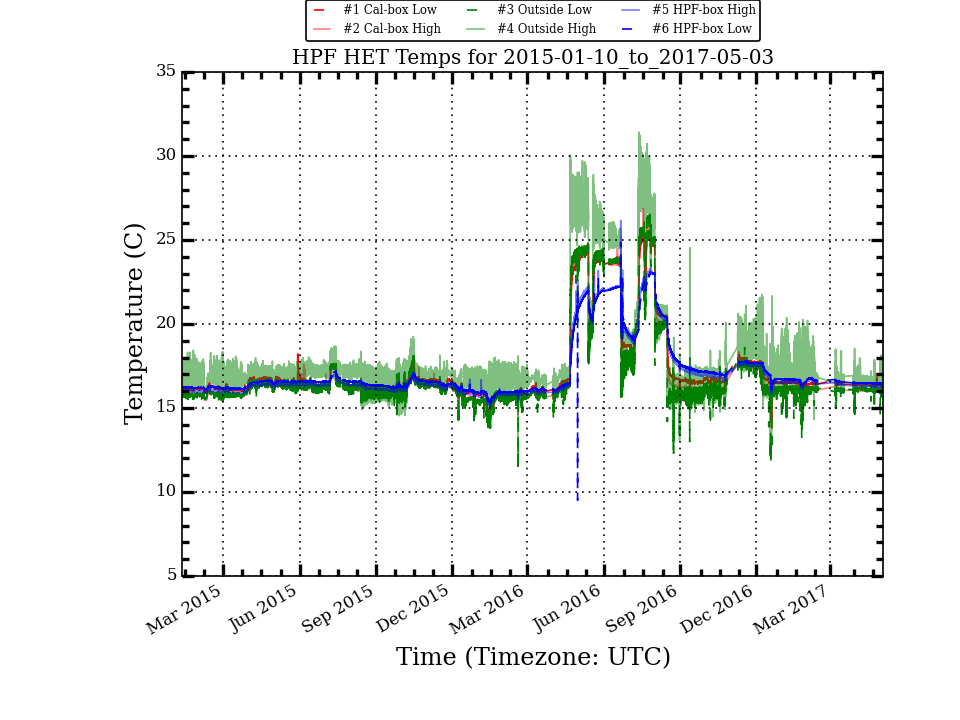
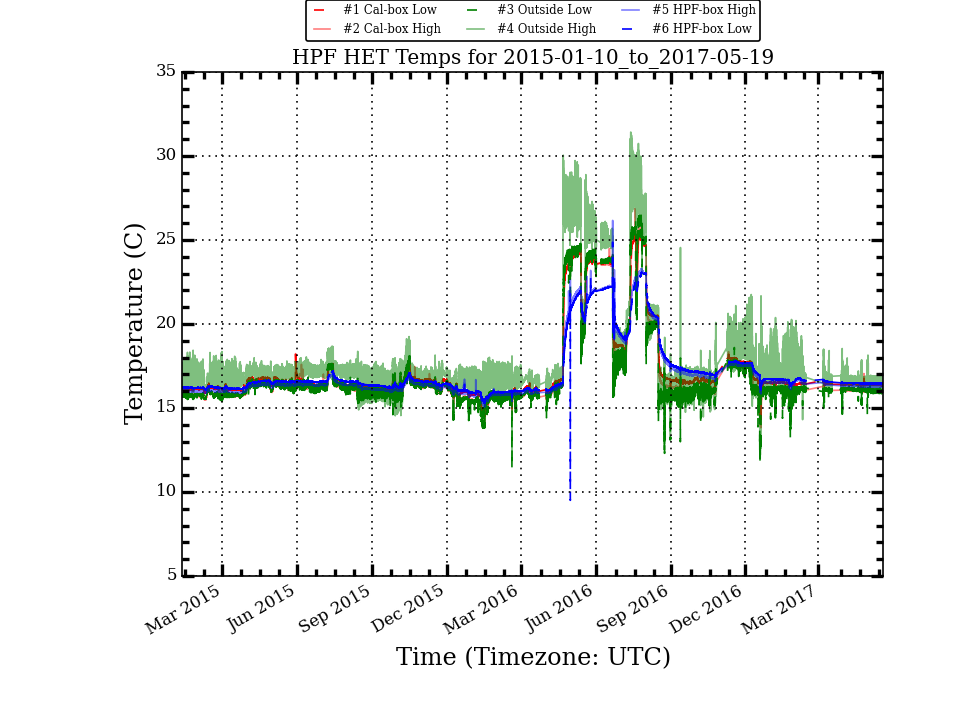
Update HPF Temp Plots

diff --git a/research/hpf_temps/plots/LakeShoreLogTotal_today_stats.html b/research/hpf_temps/plots/LakeShoreLogTotal_today_stats.html
@@ -10,56 +10,56 @@
  </TR>
  <TR>
   <TD>Cal_Low</TD>
-  <TD>16.377</TD>
-  <TD>0.007</TD>
-  <TD>16.375</TD>
-  <TD>16.393</TD>
-  <TD>16.369</TD>
-  <TD>0.024</TD>
+  <TD>16.314</TD>
+  <TD>0.004</TD>
+  <TD>16.314</TD>
+  <TD>16.324</TD>
+  <TD>16.307</TD>
+  <TD>0.017</TD>
  </TR>
  <TR>
   <TD>Cal_High</TD>
-  <TD>16.029</TD>
-  <TD>0.013</TD>
-  <TD>16.025</TD>
-  <TD>16.056</TD>
-  <TD>16.010</TD>
-  <TD>0.046</TD>
+  <TD>15.957</TD>
+  <TD>0.011</TD>
+  <TD>15.957</TD>
+  <TD>15.980</TD>
+  <TD>15.941</TD>
+  <TD>0.039</TD>
  </TR>
  <TR>
   <TD>Out_Low</TD>
-  <TD>16.166</TD>
-  <TD>0.107</TD>
+  <TD>16.008</TD>
+  <TD>0.041</TD>
+  <TD>16.014</TD>
   <TD>16.129</TD>
-  <TD>16.506</TD>
-  <TD>15.938</TD>
-  <TD>0.568</TD>
+  <TD>15.866</TD>
+  <TD>0.263</TD>
  </TR>
  <TR>
   <TD>Out_High</TD>
-  <TD>16.702</TD>
-  <TD>0.142</TD>
-  <TD>16.751</TD>
-  <TD>16.890</TD>
-  <TD>16.139</TD>
-  <TD>0.751</TD>
+  <TD>16.684</TD>
+  <TD>0.149</TD>
+  <TD>16.718</TD>
+  <TD>16.872</TD>
+  <TD>16.016</TD>
+  <TD>0.856</TD>
  </TR>
  <TR>
   <TD>HPF_High</TD>
-  <TD>16.282</TD>
-  <TD>0.006</TD>
-  <TD>16.282</TD>
-  <TD>16.297</TD>
-  <TD>16.267</TD>
-  <TD>0.030</TD>
+  <TD>16.278</TD>
+  <TD>0.003</TD>
+  <TD>16.278</TD>
+  <TD>16.286</TD>
+  <TD>16.268</TD>
+  <TD>0.018</TD>
  </TR>
  <TR>
   <TD>HPF_Low</TD>
+  <TD>16.449</TD>
+  <TD>0.002</TD>
+  <TD>16.449</TD>
   <TD>16.455</TD>
-  <TD>0.003</TD>
-  <TD>16.455</TD>
-  <TD>16.462</TD>
-  <TD>16.446</TD>
-  <TD>0.016</TD>
+  <TD>16.441</TD>
+  <TD>0.014</TD>
  </TR>
 </TABLE>

diff --git a/research/hpf_temps/plots/LakeShoreLogTotal_stats.html b/research/hpf_temps/plots/LakeShoreLogTotal_stats.html
@@ -10,54 +10,54 @@
  </TR>
  <TR>
   <TD>Cal_Low</TD>
-  <TD>17.291</TD>
-  <TD>2.270</TD>
-  <TD>16.491</TD>
+  <TD>17.273</TD>
+  <TD>2.251</TD>
+  <TD>16.482</TD>
   <TD>25.643</TD>
   <TD>14.362</TD>
   <TD>11.281</TD>
  </TR>
  <TR>
   <TD>Cal_High</TD>
-  <TD>16.986</TD>
-  <TD>2.405</TD>
-  <TD>16.128</TD>
+  <TD>16.967</TD>
+  <TD>2.385</TD>
+  <TD>16.123</TD>
   <TD>26.856</TD>
   <TD>13.829</TD>
   <TD>13.027</TD>
  </TR>
  <TR>
   <TD>Out_Low</TD>
-  <TD>16.979</TD>
-  <TD>2.453</TD>
-  <TD>16.150</TD>
+  <TD>16.960</TD>
+  <TD>2.431</TD>
+  <TD>16.141</TD>
   <TD>26.532</TD>
   <TD>11.376</TD>
   <TD>15.156</TD>
  </TR>
  <TR>
   <TD>Out_High</TD>
-  <TD>17.918</TD>
-  <TD>2.823</TD>
-  <TD>16.984</TD>
+  <TD>17.894</TD>
+  <TD>2.799</TD>
+  <TD>16.971</TD>
   <TD>31.424</TD>
   <TD>11.861</TD>
   <TD>19.563</TD>
  </TR>
  <TR>
   <TD>HPF_High</TD>
-  <TD>17.061</TD>
-  <TD>1.808</TD>
-  <TD>16.370</TD>
+  <TD>17.046</TD>
+  <TD>1.793</TD>
+  <TD>16.365</TD>
   <TD>26.165</TD>
   <TD>15.065</TD>
   <TD>11.100</TD>
  </TR>
  <TR>
   <TD>HPF_Low</TD>
-  <TD>17.207</TD>
-  <TD>1.718</TD>
-  <TD>16.563</TD>
+  <TD>17.192</TD>
+  <TD>1.704</TD>
+  <TD>16.559</TD>
   <TD>24.868</TD>
   <TD>9.505</TD>
   <TD>15.363</TD>
